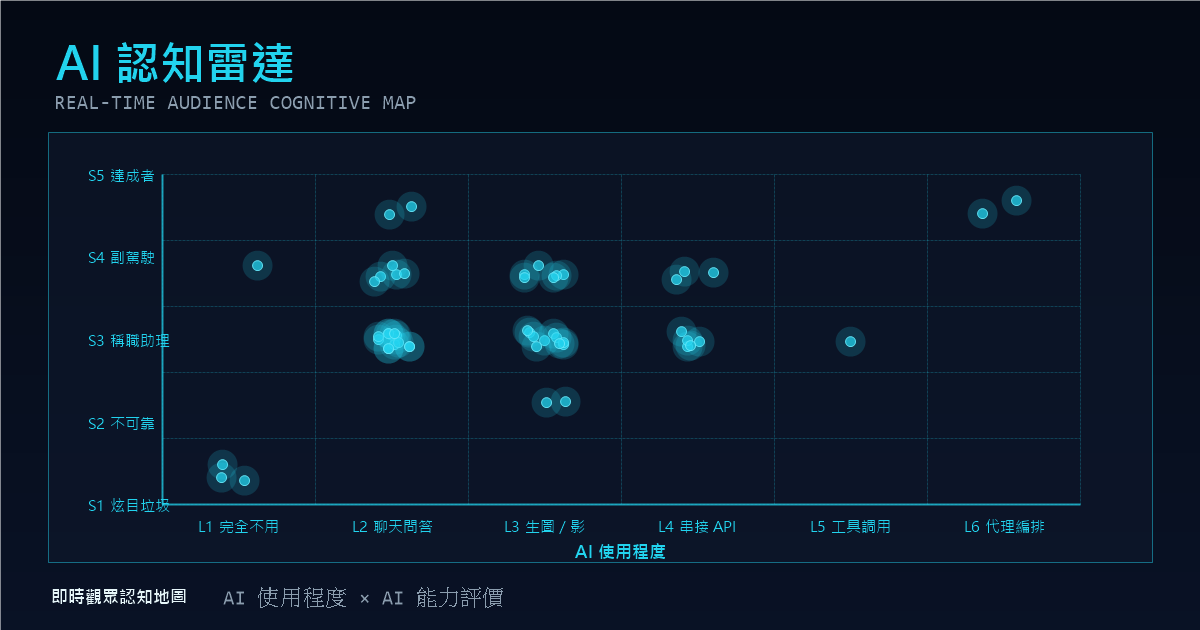
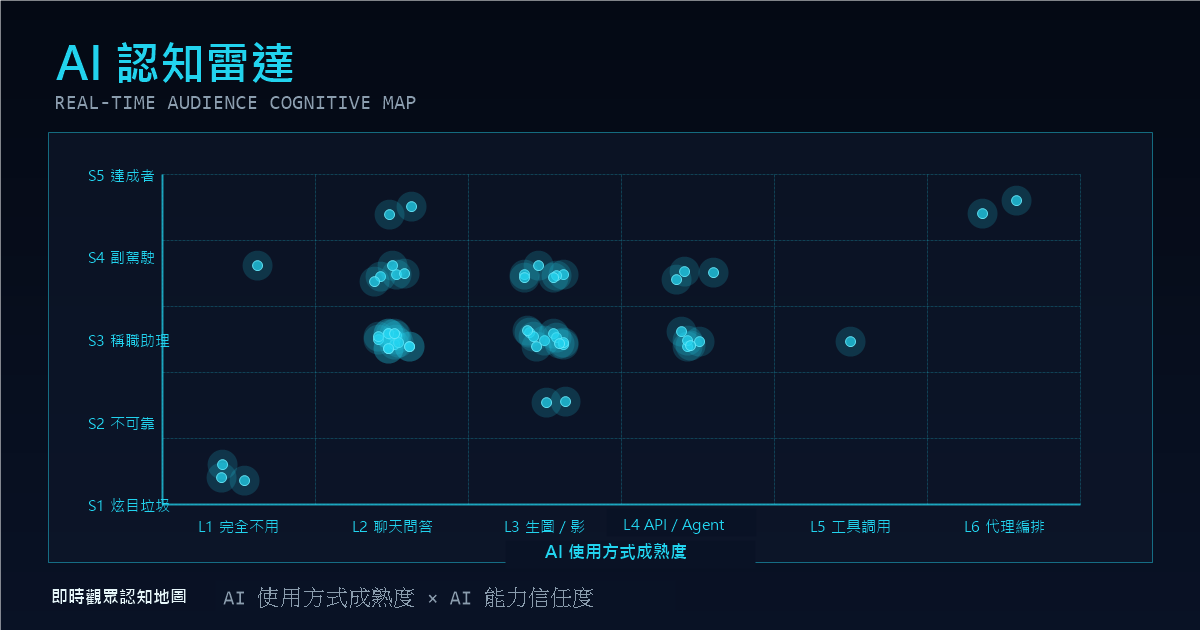
Improve chart labels and vote page readability

Changed region(s): [[0.4317, 0.8143, 0.6167, 0.9048], [0.2467, 0.9349, 0.4933, 0.9651]]

diff --git a/src/pages/Vote.tsx b/src/pages/Vote.tsx
@@ -6,7 +6,7 @@ const USAGE_OPTIONS = [
   { level: 1, code: 'L1', label: '完全不用', sub: '沒有固定使用習慣' },
   { level: 2, code: 'L2', label: '聊天問答', sub: 'ChatGPT / Claude 問問題、寫東西' },
   { level: 3, code: 'L3', label: '生圖／生影片', sub: 'Midjourney、Sora、ComfyUI' },
-  { level: 4, code: 'L4', label: '串接 API／寫 Prompt', sub: '自己打 API、系統提示詞工程' },
+  { level: 4, code: 'L4', label: 'API／Agent 工具', sub: '使用 API、Antigravity、Codex、Cursor、Claude Code 等把 AI 接進工作流程' },
   { level: 5, code: 'L5', label: '用 MCP／工具調用', sub: '讓 AI 操作外部工具（MCP Server、Function Calling）' },
   { level: 6, code: 'L6', label: '編排 AI 代理團隊', sub: '用 LangGraph、CrewAI、AutoGen、Harness 等協調多個 Agent' },
 ]
@@ -50,25 +50,25 @@ export default function Vote() {
   }
 
   return (
-    <div className="min-h-dvh bg-gray-950 text-white flex flex-col items-center sm:justify-center px-3 py-5 sm:px-4 sm:py-8 overflow-x-hidden">
+    <div className="min-h-dvh bg-slate-50 text-slate-950 flex flex-col items-center px-4 py-6 sm:px-6 sm:py-10 overflow-x-hidden">
       {step === 1 && (
-        <div className="w-full max-w-md flex flex-col gap-5 sm:gap-6">
+        <div className="w-full max-w-2xl flex flex-col gap-6">
           <div className="text-center">
-            <p className="text-cyan-400 text-sm font-mono tracking-widest uppercase mb-2">Step 1 / 2</p>
-            <h1 className="text-xl sm:text-2xl font-bold text-white">你的 AI 使用程度</h1>
-            <p className="text-gray-400 text-sm mt-1">選一個最符合你現況的選項</p>
+            <p className="text-cyan-700 text-base font-mono tracking-widest uppercase mb-3">Step 1 / 2</p>
+            <h1 className="text-3xl sm:text-4xl font-bold text-slate-950">你的 AI 使用程度</h1>
+            <p className="text-slate-600 text-lg mt-3">選一個最符合你現況的選項</p>
           </div>
-          <div className="flex flex-col gap-3">
+          <div className="flex flex-col gap-4">
             {USAGE_OPTIONS.map((opt) => (
               <button
                 key={opt.level}
                 onClick={() => handleUsage(opt.level)}
-                className="flex items-start gap-3 sm:gap-4 rounded-lg border border-cyan-800 bg-gray-900 hover:bg-cyan-900/40 hover:border-cyan-400 active:scale-95 transition-all duration-150 px-4 sm:px-6 py-4 cursor-pointer w-full text-left"
+                className="flex items-start gap-4 rounded-lg border border-slate-200 bg-white hover:bg-cyan-50 hover:border-cyan-500 active:scale-[0.99] transition-all duration-150 px-4 sm:px-6 py-5 cursor-pointer w-full text-left shadow-sm"
               >
-                <span className="text-cyan-400 font-mono text-base sm:text-lg font-bold w-8 shrink-0 text-center leading-6">{opt.code}</span>
+                <span className="bg-cyan-100 text-cyan-800 rounded-md font-mono text-lg sm:text-xl font-bold w-12 shrink-0 text-center leading-9">{opt.code}</span>
                 <div className="flex min-w-0 flex-col items-start">
-                  <span className="text-white text-base font-semibold">{opt.label}</span>
-                  <span className="text-gray-400 text-xs text-left leading-relaxed break-words">{opt.sub}</span>
+                  <span className="text-slate-950 text-xl sm:text-2xl font-bold leading-snug">{opt.label}</span>
+                  <span className="text-slate-600 text-base sm:text-lg text-left leading-relaxed break-words mt-1">{opt.sub}</span>
                 </div>
               </button>
             ))}
@@ -77,30 +77,30 @@ export default function Vote() {
       )}
 
       {step === 2 && (
-        <div className="w-full max-w-md flex flex-col gap-5 sm:gap-6">
+        <div className="w-full max-w-2xl flex flex-col gap-6">
           <div className="text-center">
-            <p className="text-cyan-400 text-sm font-mono tracking-widest uppercase mb-2">Step 2 / 2</p>
-            <h1 className="text-xl sm:text-2xl font-bold text-white">你對 AI 能力的評價</h1>
-            <p className="text-gray-400 text-sm mt-1">目前你認為 AI 是⋯</p>
+            <p className="text-cyan-700 text-base font-mono tracking-widest uppercase mb-3">Step 2 / 2</p>
+            <h1 className="text-3xl sm:text-4xl font-bold text-slate-950">你對 AI 能力的評價</h1>
+            <p className="text-slate-600 text-lg mt-3">目前你認為 AI 是...</p>
           </div>
-          <div className="flex flex-col gap-3">
+          <div className="flex flex-col gap-4">
             {EVAL_OPTIONS.map((opt) => (
               <button
                 key={opt.level}
                 onClick={() => handleEval(opt.level)}
                 disabled={submitting}
-                className="flex items-start gap-3 sm:gap-4 rounded-lg border border-cyan-800 bg-gray-900 hover:bg-cyan-900/40 hover:border-cyan-400 active:scale-95 transition-all duration-150 px-4 sm:px-6 py-4 cursor-pointer disabled:opacity-50 disabled:cursor-not-allowed w-full text-left"
+                className="flex items-start gap-4 rounded-lg border border-slate-200 bg-white hover:bg-cyan-50 hover:border-cyan-500 active:scale-[0.99] transition-all duration-150 px-4 sm:px-6 py-5 cursor-pointer disabled:opacity-60 disabled:cursor-not-allowed w-full text-left shadow-sm"
               >
-                <span className="text-cyan-400 font-mono text-base sm:text-lg font-bold w-8 shrink-0 text-center leading-6">{opt.code}</span>
+                <span className="bg-cyan-100 text-cyan-800 rounded-md font-mono text-lg sm:text-xl font-bold w-12 shrink-0 text-center leading-9">{opt.code}</span>
                 <div className="flex min-w-0 flex-col items-start">
-                  <span className="text-white text-base font-semibold">{opt.label}</span>
-                  <span className="text-gray-400 text-xs text-left leading-relaxed break-words">{opt.sub}</span>
+                  <span className="text-slate-950 text-xl sm:text-2xl font-bold leading-snug">{opt.label}</span>
+                  <span className="text-slate-600 text-base sm:text-lg text-left leading-relaxed break-words mt-1">{opt.sub}</span>
                 </div>
               </button>
             ))}
           </div>
           {error && (
-            <p className="text-red-400 text-center text-sm">{error}</p>
+            <p className="text-red-600 text-center text-base font-medium">{error}</p>
           )}
         </div>
       )}
@@ -108,9 +108,9 @@ export default function Vote() {
       {step === 3 && (
         <div className="flex flex-col items-center justify-center min-h-[70dvh] gap-5 sm:gap-6 text-center px-4">
           <div className="text-6xl animate-bounce">✅</div>
-          <h1 className="text-2xl sm:text-3xl font-bold text-cyan-400">感謝投票！</h1>
-          <p className="text-lg sm:text-xl text-white">請抬頭看大螢幕 👀</p>
-          <p className="text-gray-500 text-sm mt-4">你的資料已即時更新到圖表上</p>
+          <h1 className="text-3xl sm:text-4xl font-bold text-cyan-700">感謝投票！</h1>
+          <p className="text-xl sm:text-2xl text-slate-950 font-semibold">請抬頭看大螢幕 👀</p>
+          <p className="text-slate-600 text-base sm:text-lg mt-2">你的資料已即時更新到圖表上</p>
         </div>
       )}
     </div>

diff --git a/src/pages/Dashboard.tsx b/src/pages/Dashboard.tsx
@@ -1,4 +1,4 @@
-import { useEffect, useRef, useState } from 'react'
+import { useEffect, useState } from 'react'
 import { collection, onSnapshot } from 'firebase/firestore'
 import type { QueryDocumentSnapshot, DocumentData } from 'firebase/firestore'
 import { db } from '../firebase'
@@ -29,7 +29,7 @@ const X_LABELS: Record<number, string> = {
   1: 'L1 完全不用', 
   2: 'L2 聊天問答', 
   3: 'L3 生圖／影', 
-  4: 'L4 串接 API', 
+  4: 'L4 API／Agent', 
   5: 'L5 工具調用', 
   6: 'L6 代理編排' 
 }
@@ -43,6 +43,23 @@ function xTickFormatter(v: number) {
 function yTickFormatter(v: number) {
   const rounded = Math.round(v)
   return Y_LABELS[rounded] ?? ''
+}
+
+function stableUnit(id: string, salt: string) {
+  let hash = 2166136261
+  const input = `${salt}:${id}`
+  for (let i = 0; i < input.length; i += 1) {
+    hash ^= input.charCodeAt(i)
+    hash = Math.imul(hash, 16777619)
+  }
+  return (hash >>> 0) / 4294967295
+}
+
+function getStableJitter(id: string) {
+  return {
+    jx: (stableUnit(id, 'x') - 0.5) * 0.32,
+    jy: (stableUnit(id, 'y') - 0.5) * 0.32,
+  }
 }
 
 // Custom dot with glow effect — opacity scales with density approximation
@@ -64,7 +81,6 @@ function GlowDot(props: { cx?: number; cy?: number; payload?: PlotPoint }) {
 export default function Dashboard() {
   const [points, setPoints] = useState<PlotPoint[]>([])
   const [isCompact, setIsCompact] = useState(false)
-  const jitterRef = useRef<Record<string, { jx: number; jy: number }>>({})
 
   const voteUrl = `${window.location.origin}/vote`
 
@@ -83,14 +99,7 @@ export default function Dashboard() {
         snapshot.docs.forEach((doc: QueryDocumentSnapshot<DocumentData>) => {
           const data = doc.data() as VoteDoc
           const id = doc.id
-          // Compute jitter once per doc ID, then reuse — prevents jumping on re-render
-          if (!jitterRef.current[id]) {
-            jitterRef.current[id] = {
-              jx: (Math.random() - 0.5) * 0.3,
-              jy: (Math.random() - 0.5) * 0.3,
-            }
-          }
-          const { jx, jy } = jitterRef.current[id]
+          const { jx, jy } = getStableJitter(id)
           newPoints.push({
             id,
             x: data.usage_level + jx,
@@ -132,23 +141,23 @@ export default function Dashboard() {
         <div className="flex-1 bg-gray-900/60 border border-cyan-900/50 rounded-lg p-2 sm:p-4 min-w-0">
           <div style={{ height: 'clamp(360px, 62dvh, 560px)' }}>
             <ResponsiveContainer width="100%" height="100%">
-              <ScatterChart margin={{ top: 20, right: 10, bottom: 68, left: isCompact ? 0 : 10 }}>
-              <CartesianGrid strokeDasharray="3 3" stroke="rgba(34,211,238,0.1)" />
+              <ScatterChart margin={{ top: 18, right: 14, bottom: isCompact ? 74 : 82, left: isCompact ? 6 : 18 }}>
+              <CartesianGrid strokeDasharray="3 3" stroke="rgba(34,211,238,0.16)" />
               <XAxis
                 type="number"
                 dataKey="x"
                 domain={[0.5, 6.5]}
                 ticks={[1, 2, 3, 4, 5, 6]}
                 tickFormatter={(value) => isCompact ? `L${Math.round(value)}` : xTickFormatter(value)}
-                tick={{ fill: '#67e8f9', fontSize: isCompact ? 9 : 10 }}
-                stroke="rgba(34,211,238,0.3)"
+                tick={{ fill: '#dffbff', fontSize: isCompact ? 12 : 13, fontWeight: 700, stroke: '#020617', strokeWidth: 3, paintOrder: 'stroke' }}
+                stroke="rgba(103,232,249,0.65)"
                 interval={0}
               >
                 <Label
-                  value="AI 使用程度"
+                  value="X 軸：AI 使用方式成熟度"
                   position="insideBottom"
-                  offset={-40}
-                  style={{ fill: '#22d3ee', fontSize: 12, fontFamily: 'monospace' }}
+                  offset={isCompact ? -44 : -50}
+                  style={{ fill: '#dffbff', fontSize: isCompact ? 13 : 15, fontWeight: 700, fontFamily: 'monospace' }}
                 />
               </XAxis>
               <YAxis
@@ -157,16 +166,16 @@ export default function Dashboard() {
                 domain={[0.5, 5.5]}
                 ticks={[1, 2, 3, 4, 5]}
                 tickFormatter={(value) => isCompact ? `S${Math.round(value)}` : yTickFormatter(value)}
-                tick={{ fill: '#67e8f9', fontSize: isCompact ? 9 : 10 }}
-                stroke="rgba(34,211,238,0.3)"
-                width={isCompact ? 42 : 78}
+                tick={{ fill: '#dffbff', fontSize: isCompact ? 12 : 13, fontWeight: 700, stroke: '#020617', strokeWidth: 3, paintOrder: 'stroke' }}
+                stroke="rgba(103,232,249,0.65)"
+                width={isCompact ? 46 : 96}
               >
                 <Label
-                  value="AI 能力評價"
+                  value="Y 軸：AI 能力信任度"
                   angle={-90}
                   position="insideLeft"
-                  offset={isCompact ? -26 : -46}
-                  style={{ fill: '#22d3ee', fontSize: 12, fontFamily: 'monospace' }}
+                  offset={isCompact ? -30 : -58}
+                  style={{ fill: '#dffbff', fontSize: isCompact ? 13 : 15, fontWeight: 700, fontFamily: 'monospace' }}
                 />
               </YAxis>
               <Tooltip
@@ -212,7 +221,7 @@ export default function Dashboard() {
         <div className="flex flex-col gap-1">
           <p><span className="text-cyan-700 font-bold mr-2">X 軸 (使用程度)：</span></p>
           <p>L1 完全不用 (沒有固定習慣) → L2 聊天問答 (ChatGPT / Claude) → L3 生圖／生影片 (Midjourney/Sora)</p>
-          <p>→ L4 串接 API (提示詞工程) → L5 用 MCP (工具調用) → L6 編排代理 (LangGraph/CrewAI)</p>
+          <p>→ L4 API／Agent 工具 (Antigravity、Codex、Cursor、Claude Code) → L5 用 MCP (工具調用) → L6 編排代理 (LangGraph/CrewAI)</p>
         </div>
         <div className="flex flex-col gap-1">
           <p><span className="text-cyan-700 font-bold mr-2">Y 軸 (能力評價)：</span></p>
